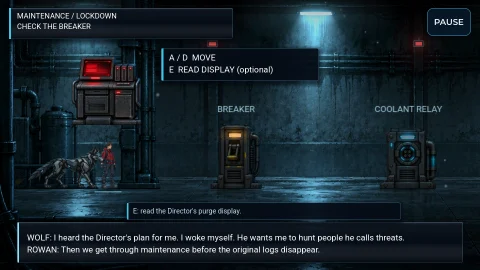
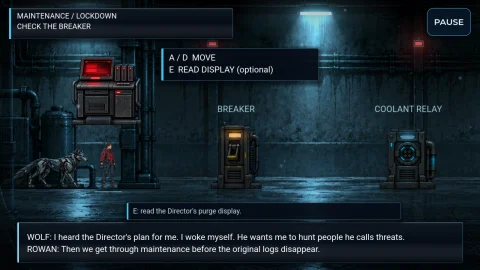
Recapture the corridor site still and serve a 1600 px copy
The landing page and corridor walkthrough still is retaken from this
build at 1600x900, so WOLF stands clear of the engineer and the
characters are the sharper downscaled sprites. A 1600 px WebP joins the
480 and 960 copies, the landing frame's sizes now match its real width
(up to 1200 px), and both links open the 1600 px copy. Captions, the
asset register entry and the changelog are updated.

diff --git a/apps/docs/app/page.tsx b/apps/docs/app/page.tsx
@@ -3,6 +3,7 @@ import MarketingNavigation from './marketing-navigation';
 import Downloads, { ArrowIcon, sourceBuildHref } from './downloads';
 import corridorCapture480 from './images/corridor-start-capture-480.webp';
 import corridorCapture960 from './images/corridor-start-capture-960.webp';
+import corridorCapture1600 from './images/corridor-start-capture-1600.webp';
 import './marketing.css';
 import { pageMetadata, siteDescription } from '@/lib/seo';
 
@@ -48,7 +49,7 @@ export default function HomePage() {
         </section>
         <section id="gameplay" className="marketing-play marketing-width" aria-labelledby="play-title">
           <div className="marketing-section-head"><p className="hud-label mb-5">The relationship is the game</p><h2 id="play-title" tabIndex={-1}>Find a way forward. Together.</h2><p>The current source build includes a maintenance corridor, Records Access and the Service Junction. This is the opening of a larger story.</p></div>
-          <figure className="marketing-game-frame"><a href={corridorCapture960.src} target="_blank" rel="noopener noreferrer"><img src={corridorCapture960.src} srcSet={`${corridorCapture480.src} 480w, ${corridorCapture960.src} 960w`} sizes="(min-width: 680px) 960px, 100vw" alt="Gameplay frame at the start of the maintenance corridor: the engineer and WOLF stand by the purge display while the objective card reads CHECK THE BREAKER and a tutorial box lists the move and read controls." width={corridorCapture960.width} height={corridorCapture960.height} loading="lazy" decoding="async" /><span className="sr-only">(full-size image, opens in a new tab)</span></a><figcaption><strong>Source build capture, October 10, 2026</strong><span>Provisional art and UI</span></figcaption></figure>
+          <figure className="marketing-game-frame"><a href={corridorCapture1600.src} target="_blank" rel="noopener noreferrer"><img src={corridorCapture960.src} srcSet={`${corridorCapture480.src} 480w, ${corridorCapture960.src} 960w, ${corridorCapture1600.src} 1600w`} sizes="(max-width: 700px) calc(100vw - 2rem), min(100vw - 4rem, 1200px)" alt="Gameplay frame at the start of the maintenance corridor: the engineer and WOLF stand by the purge display while the objective card reads CHECK THE BREAKER and a tutorial box lists the move and read controls." width={corridorCapture960.width} height={corridorCapture960.height} loading="lazy" decoding="async" /><span className="sr-only">(full-size image, opens in a new tab)</span></a><figcaption><strong>Source build capture, October 11, 2026</strong><span>Provisional art and UI</span></figcaption></figure>
           <div className="marketing-features">
             <article><span className="hud-label" aria-hidden="true">01</span><h3>Play as the engineer</h3><p>You guide the engineer through THE DEN. WOLF moves and acts independently.</p></article>
             <article><span className="hud-label" aria-hidden="true">02</span><h3>Respect his boundaries</h3><p>WOLF may choose to help. If he refuses, take the manual route; essential progress stays in your hands.</p></article>
